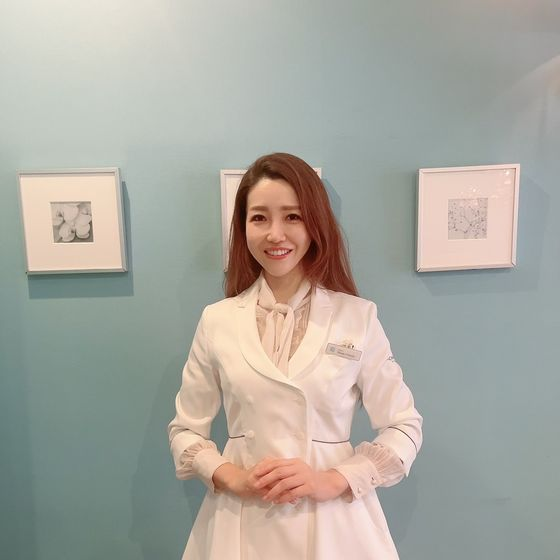
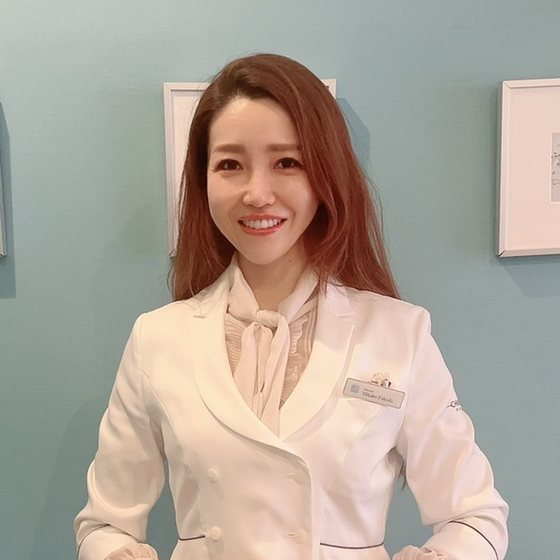
トレーナー3名と無料体験3カードの写真を実写に差し替え
- トレーナー：左=中務正幸（ジムオーナー）／中央=成清愛（女性トレーナー）／
  右=塩崎優子（女性トレーナー）。顔が中央に来るよう1:1でトリミング。
  仮置きだった作り話のコメントは、実在のお名前を出すため削除
- 無料体験3カード：身体のチェック／あなたに合ったトレーニング／あなた専用プランを挿入。
  スマホでは幅100pxの縦長に切り抜かれるため object-position を1枚ずつ指定
- ドクターの写真：顔と身体が中央に来るよう再トリミング
- 経営者の写真：バストアップに寄せて再トリミング
- READMEの写真一覧を更新（残るプレースホルダーは ph-last.svg のみ）

既存CSSブロックはバイト単位で同一を維持。

Claude-Session: https://claude.ai/code/session_01Re5nFwUBRuEXj6DTQGbL92

diff --git a/women-v2/index.html b/women-v2/index.html
@@ -1070,7 +1070,7 @@ height="0" width="0" style="display:none;visibility:hidden"></iframe></noscript>
 
       <div class="trow">
         <article>
-          <img src="images/p01.jpg" alt="トレーナーが姿勢と動きをチェックしている様子" width="800" height="1000" loading="lazy" decoding="async">
+          <img src="images/身体のチェック.jpg" alt="トレーナーが姿勢と身体の動きをチェックしている様子" width="800" height="500" style="object-position:57% 50%;" loading="lazy" decoding="async">
           <div class="in">
             <span class="no">01</span>
             <h3><span class="nw">身体の状態を</span><span class="nw">チェック</span></h3>
@@ -1078,7 +1078,7 @@ height="0" width="0" style="display:none;visibility:hidden"></iframe></noscript>
           </div>
         </article>
         <article>
-          <img src="images/p02.jpg" alt="トレーナーの補助を受けながらトレーニングを体験している様子" width="800" height="1000" loading="lazy" decoding="async">
+          <img src="images/あなたに合ったトレーニング.jpg" alt="トレーナーの補助を受けながらトレーニングを体験している様子" width="800" height="500" style="object-position:49% 50%;" loading="lazy" decoding="async">
           <div class="in">
             <span class="no">02</span>
             <h3><span class="nw">あなたに合った</span><span class="nw">トレーニングを体験</span></h3>
@@ -1086,7 +1086,7 @@ height="0" width="0" style="display:none;visibility:hidden"></iframe></noscript>
           </div>
         </article>
         <article>
-          <img src="images/p03.jpg" alt="これからの身体づくりについてトレーナーと相談している様子" width="800" height="1000" loading="lazy" decoding="async">
+          <img src="images/あなた専用プラン.jpg" alt="これからの身体づくりについてトレーナーと相談している様子" width="800" height="500" style="object-position:71% 50%;" loading="lazy" decoding="async">
           <div class="in">
             <span class="no">03</span>
             <h3><span class="nw">あなた専用プランを</span><span class="nw">ご提案</span></h3>
@@ -1175,27 +1175,25 @@ height="0" width="0" style="display:none;visibility:hidden"></iframe></noscript>
 
       <div class="staff">
         <article>
-          <img class="photo r-square" src="images/t01.jpg" alt="プライベートジムNeeDS 代表 中務正幸" width="600" height="600" loading="lazy" decoding="async">
+          <img class="photo r-square" src="images/ジムオーナー.jpg" alt="プライベートジムNeeDS ジムオーナー 中務正幸" width="560" height="560" loading="lazy" decoding="async">
           <div class="staff-body">
-            <h3 class="staff-name">中務 正幸</h3>
-            <p class="staff-role">代表</p>
+            <h3 class="staff-name"><span class="nw">中務 正幸</span></h3>
+            <p class="staff-role">ジムオーナー</p>
             <p class="staff-cmt"><span class="nw">「まず身体の</span><span class="nw">状態を見る」</span></p>
           </div>
         </article>
         <article>
-          <img class="photo r-square" src="images/t02.jpg" alt="プライベートジムNeeDSの女性トレーナー" width="600" height="600" loading="lazy" decoding="async">
+          <img class="photo r-square" src="images/成清トレーナー.jpg" alt="プライベートジムNeeDSの女性トレーナー 成清愛" width="600" height="600" loading="lazy" decoding="async">
           <div class="staff-body">
-            <h3 class="staff-name">お名前<span class="tag-tmp">仮</span></h3>
+            <h3 class="staff-name"><span class="nw">成清 愛</span></h3>
             <p class="staff-role">女性トレーナー</p>
-            <p class="staff-cmt"><span class="nw">「きつくは</span><span class="nw">ありません」</span></p>
           </div>
         </article>
         <article>
-          <img class="photo r-square" src="images/t03.jpg" alt="プライベートジムNeeDSのトレーナー" width="600" height="600" loading="lazy" decoding="async">
+          <img class="photo r-square" src="images/塩崎トレーナー.jpg" alt="プライベートジムNeeDSの女性トレーナー 塩崎優子" width="600" height="600" loading="lazy" decoding="async">
           <div class="staff-body">
-            <h3 class="staff-name">お名前<span class="tag-tmp">仮</span></h3>
-            <p class="staff-role">トレーナー</p>
-            <p class="staff-cmt"><span class="nw">「一つずつ</span><span class="nw">進めます」</span></p>
+            <h3 class="staff-name"><span class="nw">塩崎 優子</span></h3>
+            <p class="staff-role">女性トレーナー</p>
           </div>
         </article>
       </div>

diff --git a/women-v2/README.md b/women-v2/README.md
@@ -162,11 +162,31 @@ CTAは **ヒーロー ／ 無料体験 ／ 料金 ／ 最終CTA ／ フッター
 | ファイル | 用途 |
 |---|---|
 | `hero.jpg` | ヒーロー |
-| `p01.jpg` / `p02.jpg` / `p03.jpg` | 無料体験の3カード |
 | `p04.jpg` | Studio（完全個室の店内） |
 | `p08.jpg` / `p09.jpg` | Access（六甲道店／六甲風の郷店 外観） |
-| `t01.jpg` 〜 `t03.jpg` | トレーナー3名（`t02` `t03` は Reason の囲みでも小さく再掲） |
+| `t02.jpg` / `t03.jpg` | Beginner の吹き出し囲み（2人が会話しているイメージ） |
 | `logo.png` | ヘッダー／フッター／favicon |
+
+`p01.jpg` / `p02.jpg` / `p03.jpg` / `t01.jpg` は差し替え済みのため、現在は未使用です。
+
+### 実写（お客様ご支給・Google ドライブ）
+
+| ファイル | 用途 | 加工 |
+|---|---|---|
+| `未来1.jpg` 〜 `未来4.jpg` | 「こんな未来」4点 | 3:2・1000×667 |
+| `ドクター.jpg` | プロも通う（ドクター） | 1:1・顔と身体が中央に来るようトリミング |
+| `女子プロゴルファー.jpg` | プロも通う（アスリート） | 1:1 |
+| `モデル.jpg` | プロも通う（モデル・タレント） | 1:1 |
+| `経営者.jpg` | プロも通う（経営者） | 1:1・バストアップに寄せてトリミング |
+| `ジムオーナー.jpg` | トレーナー左：中務 正幸 | 1:1・顔が中央 |
+| `成清トレーナー.jpg` | トレーナー中央：成清 愛 | 1:1・顔が中央 |
+| `塩崎トレーナー.jpg` | トレーナー右：塩崎 優子 | 1:1・顔が中央 |
+| `身体のチェック.jpg` | 無料体験 01 | 16:10・`object-position:57%` |
+| `あなたに合ったトレーニング.jpg` | 無料体験 02 | 16:10・`object-position:49%` |
+| `あなた専用プラン.jpg` | 無料体験 03 | 16:10・`object-position:71%` |
+
+スマホでは `.trow` の写真が幅100pxの縦長に切り抜かれるため、
+被写体（トレーナー）が中央に来るよう `object-position` を1枚ずつ指定しています。
 
 ### プレースホルダー（`images/ph/` ・すべて差し替え待ち）
 
@@ -176,26 +196,22 @@ CTAは **ヒーロー ／ 無料体験 ／ 料金 ／ 最終CTA ／ フッター
 
 | ファイル | 差し替える写真 |
 |---|---|
-| `ph-doctor.svg` | ドクター（プロも通う・4:3） |
-| `ph-sports.svg` | スポーツ選手（4:3） |
-| `ph-athlete.svg` | アスリート（4:3） |
-| `ph-model.svg` | モデル・タレント（4:3） |
-| `ph-business.svg` | 経営者・ビジネスパーソン（4:3） |
-| `ph-f1.svg` | 肩や腰の不調を相談している様子（未来・1:1） |
-| `ph-f2.svg` | 旅行や趣味を楽しむ様子（1:1） |
-| `ph-f3.svg` | 身体の使い方を見直す様子（1:1） |
-| `ph-f4.svg` | 二の腕・お腹まわりのトレーニング（1:1） |
-| `ph-f5.svg` | （現在未使用）階段や坂道を軽やかに歩く様子 |
-| `ph-f6.svg` | （現在未使用）家事や仕事を軽やかにこなす様子 |
 | `ph-last.svg` | 笑顔でトレーニングする女性（最終CTA・4:5） |
+
+**残るプレースホルダーは `ph-last.svg` の1点だけです。**
 
 差し替えは `src` を実写のパスに変えるだけです（`object-fit:cover` で自動的に切り抜かれます）。
 `alt` は日本語で内容を記述しているので、あわせて更新してください。
 
 ### そのほかの差し替え待ち
 
-- **トレーナー2人目・3人目のお名前とコメント**（`仮` タグ付き）。
-  「女性トレーナーが在籍している」ことは、セクション冒頭の1行と2人目の肩書きで示しています。
+- **成清トレーナー・塩崎トレーナーのコメント**。
+  仮置きしていた作り話のコメントは、実在のお名前を出す以上そのままには
+  できないため削除しました。ご本人のことばをいただければ入れられます。
+  中務さんのコメントは既存LPからの引用のため、そのまま残しています。
+- **写真の使用許諾**。ドクター・アスリート・モデル・経営者・トレーナーの各写真は
+  いずれも個人が特定できる実写です。掲載許可（アスリートの写真は撮影者・所属先の
+  使用許諾も）が取れているかご確認ください。
 
 ## 動作確認済み
 
